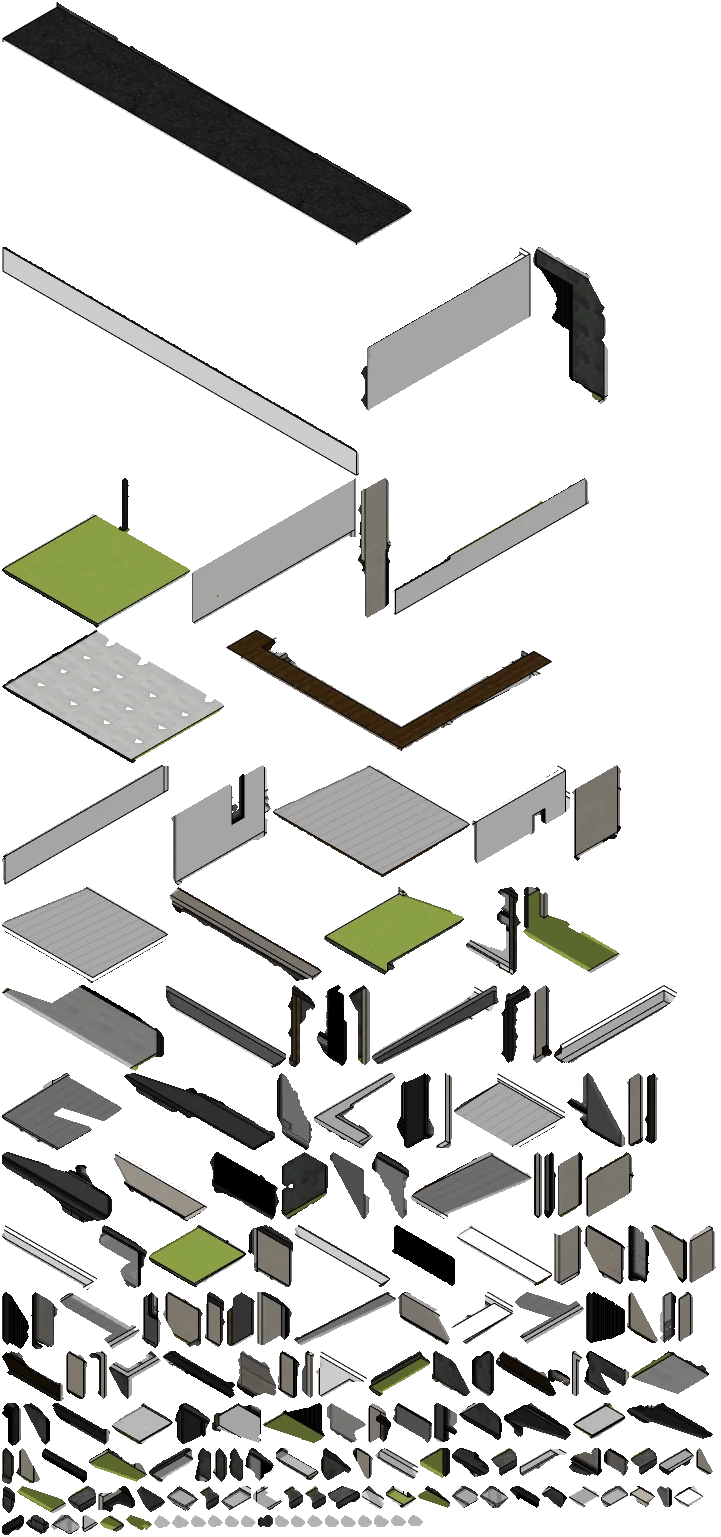
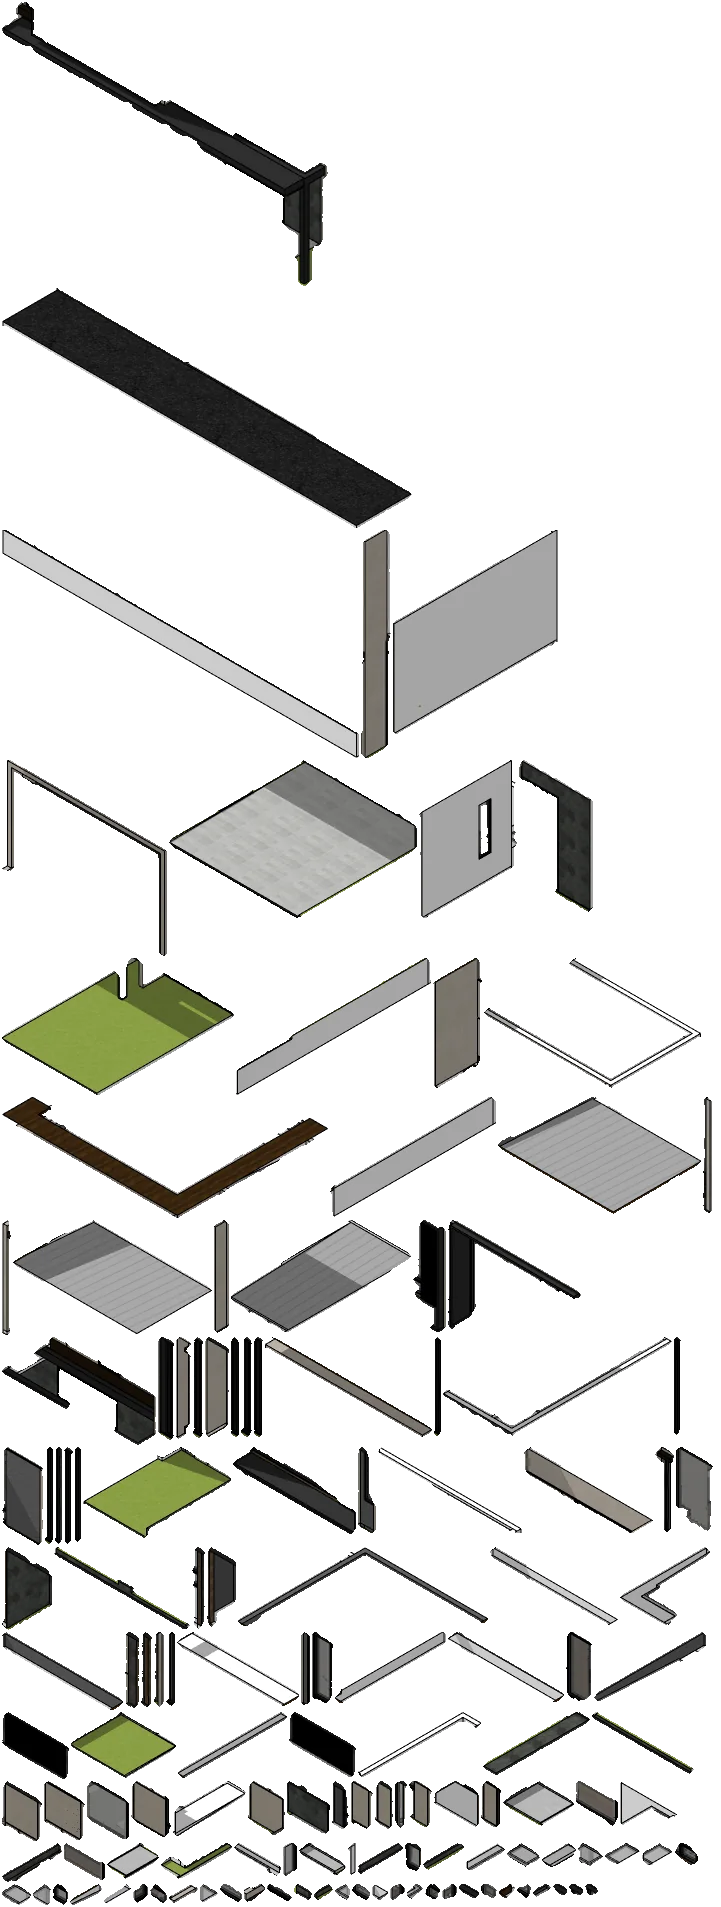
Home services: cut the model along its real outlines
The parts of the house were cut by colour, so a shadow falling across a
wall split one rectangular face into triangles, and the storey masks cut
tall walls at the section line. Parts are now the faces of the finished
render itself: an area bounded by the model's outlines (thin lines darker
than the surface on both sides) or by a change of material, never by a
shadow's edge or a storey. 137 parts, each the shape of the thing it shows.

Claude-Session: https://claude.ai/code/session_01ReS4jKxqpAp3wjPnS89kia

diff --git a/README.md b/README.md
@@ -83,7 +83,8 @@ node scripts/build-model-parts.mjs <lantai-dasar.png> <lantai-atas.png> <rumah-j
 ```
 
 Skrip membuat: rumah jadi (`build-full`), sketsa garisnya (`build-sketch`, ditarik dari tepi render itu sendiri),
-lembar potongan bagian bangunan (`build-parts`, dipotong mengikuti garis sketsa), dan `src/data/model-parts.json`
+lembar potongan bagian bangunan (`build-parts`: tiap potongan adalah satu bidang utuh yang dibatasi garis tepi
+objek atau pergantian material di gambar rumah jadi; bayangan dan batas lantai tidak memotong bidang), dan `src/data/model-parts.json`
 yang mencatat letak serta urutan pasang tiap bagian (lantai dasar, lantai atas, atap; tiap bagian di samping yang
 sudah terpasang) dan garis sketsa sebagai tarikan pensil. Tempo adegan (lama menggambar, jeda, lama memasang) ada
 di konstanta `DRAW`, `HELD`, `BUILD` di awal `src/components/ServiceSketch.tsx`.
